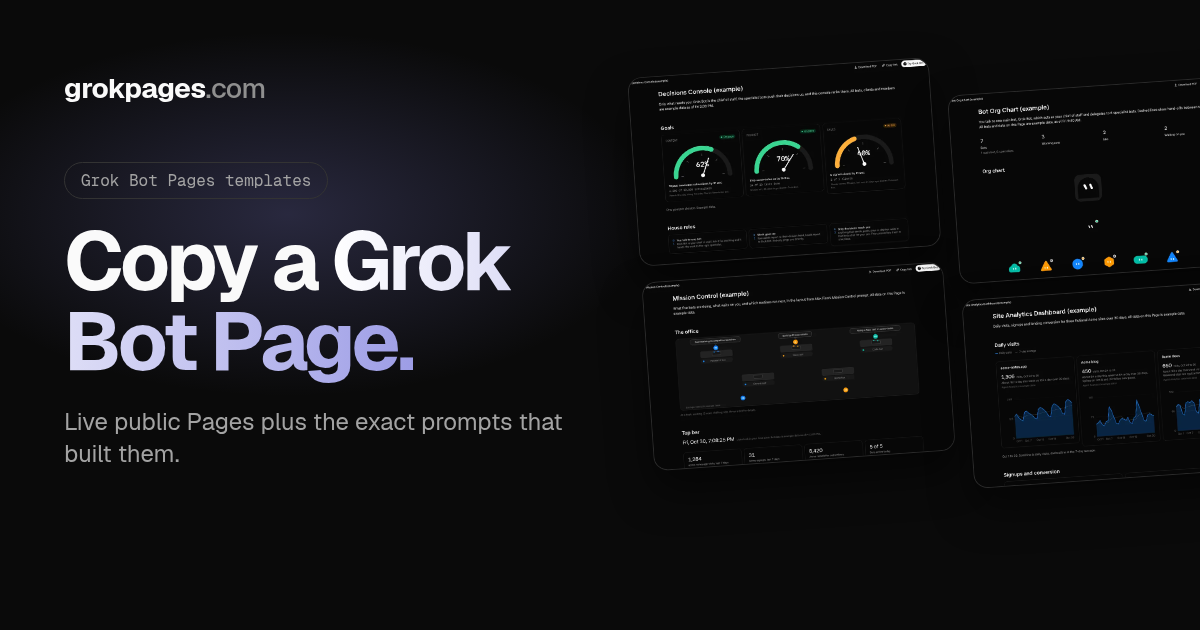
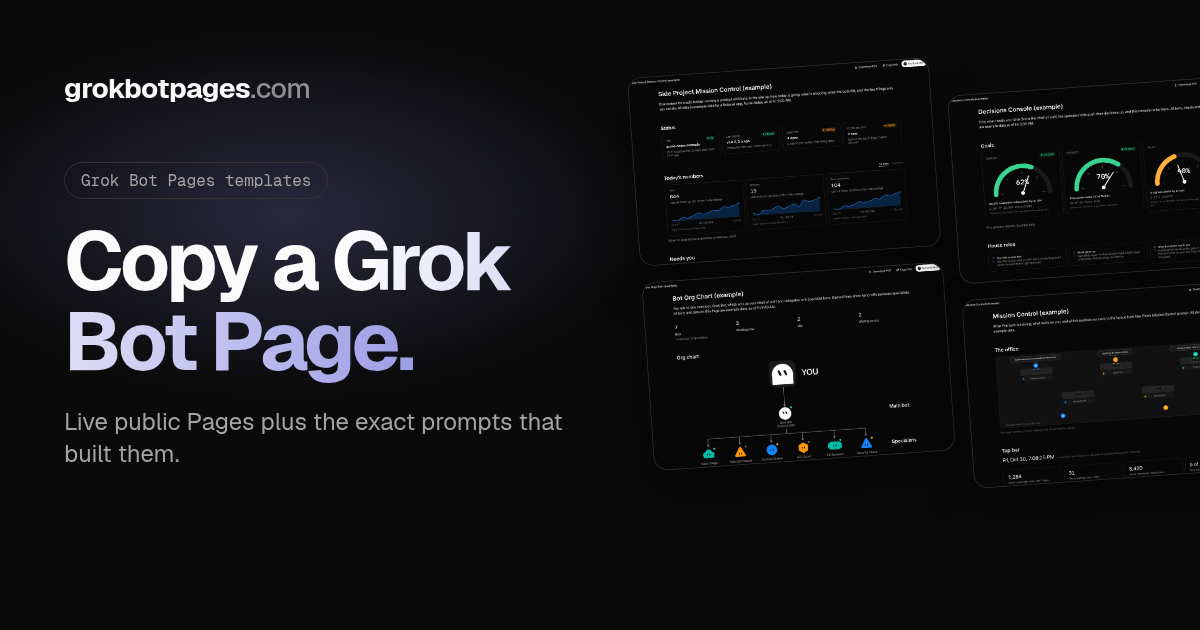
Make grokbotpages.com the primary domain
Canonical, og:url, og:image, sitemap and robots now use https://grokbotpages.com,
and the wordmark, titles and OG image say grokbotpages.com. The Agent Analytics
project id (data-project="grokpages.com") is unchanged. Adds domain checks to
npm test. Merge only after grokbotpages.com is attached to the Pages project.

diff --git a/site/src/app.js b/site/src/app.js
@@ -1,4 +1,4 @@
-// grokpages.com: category filter, copy buttons, and Agent Analytics clicks. No dependencies.
+// grokbotpages.com: category filter, copy buttons, and Agent Analytics clicks. No dependencies.
 (function () {
   var data = {};
   var el = document.getElementById('site-data');

diff --git a/site/README.md b/site/README.md
@@ -1,6 +1,6 @@
-# grokpages.com site
+# grokbotpages.com site
 
-Static site for [grokpages.com](https://grokpages.com). Everything on it is generated from the repo's `README.md`: categories, entries, credits, prompts and the get-listed snippet. Add or edit an entry in the README and rebuild; there is no separate data file.
+Static site for [grokbotpages.com](https://grokbotpages.com). Everything on it is generated from the repo's `README.md`: categories, entries, credits, prompts and the get-listed snippet. Add or edit an entry in the README and rebuild; there is no separate data file.
 
 ## Build
 
@@ -14,7 +14,7 @@ npm run serve        # http://localhost:4321
 npm test             # serves dist/, click-tests chips and copy buttons, checks links, runs axe
 ```
 
-The number of checks grows with the README: one per category chip and per entry. With the current 5 entries `npm test` runs 84 checks. `npm test -- <dir>` also writes screenshots to `<dir>` and adds 2 mobile overflow checks (86).
+The number of checks grows with the README: one per category chip and per entry, plus 2 domain checks per page. With the current 5 entries `npm test` runs 99 checks. `npm test -- <dir>` also writes screenshots to `<dir>` and adds 2 mobile overflow checks (101).
 
 When a Page is added or changes:
 
@@ -36,5 +36,5 @@ Commit the files in `public/shots/` and `public/og.png`; the build copies them i
 
 ## Hosting
 
-Cloudflare Pages, connected by Git to this repo. Every push to `main` deploys; there are no manual deploys. Settings: production branch `main`, root directory `site`, build command `npm ci && npm run build`, output directory `dist`, `NODE_VERSION=22`. Custom domains are grokpages.com and www.grokpages.com; grokbotpages.com and its www redirect (301) to https://grokpages.com with the path and query kept. Pages link with root paths (`/assets/...`, `/t/<slug>/`), so serve it at the domain root.
+Cloudflare Pages, connected by Git to this repo. Every push to `main` deploys; there are no manual deploys. Settings: production branch `main`, root directory `site`, build command `npm ci && npm run build`, output directory `dist`, `NODE_VERSION=22`. Custom domains are grokbotpages.com and www.grokbotpages.com. grokpages.com and www.grokpages.com redirect (301) to https://grokbotpages.com with the path and query kept, through a Single Redirect rule on the grokpages.com zone. The Agent Analytics project is still named `grokpages.com` (the tracker `data-project`); it is a project id, not the served domain. Pages link with root paths (`/assets/...`, `/t/<slug>/`), so serve it at the domain root.
 
